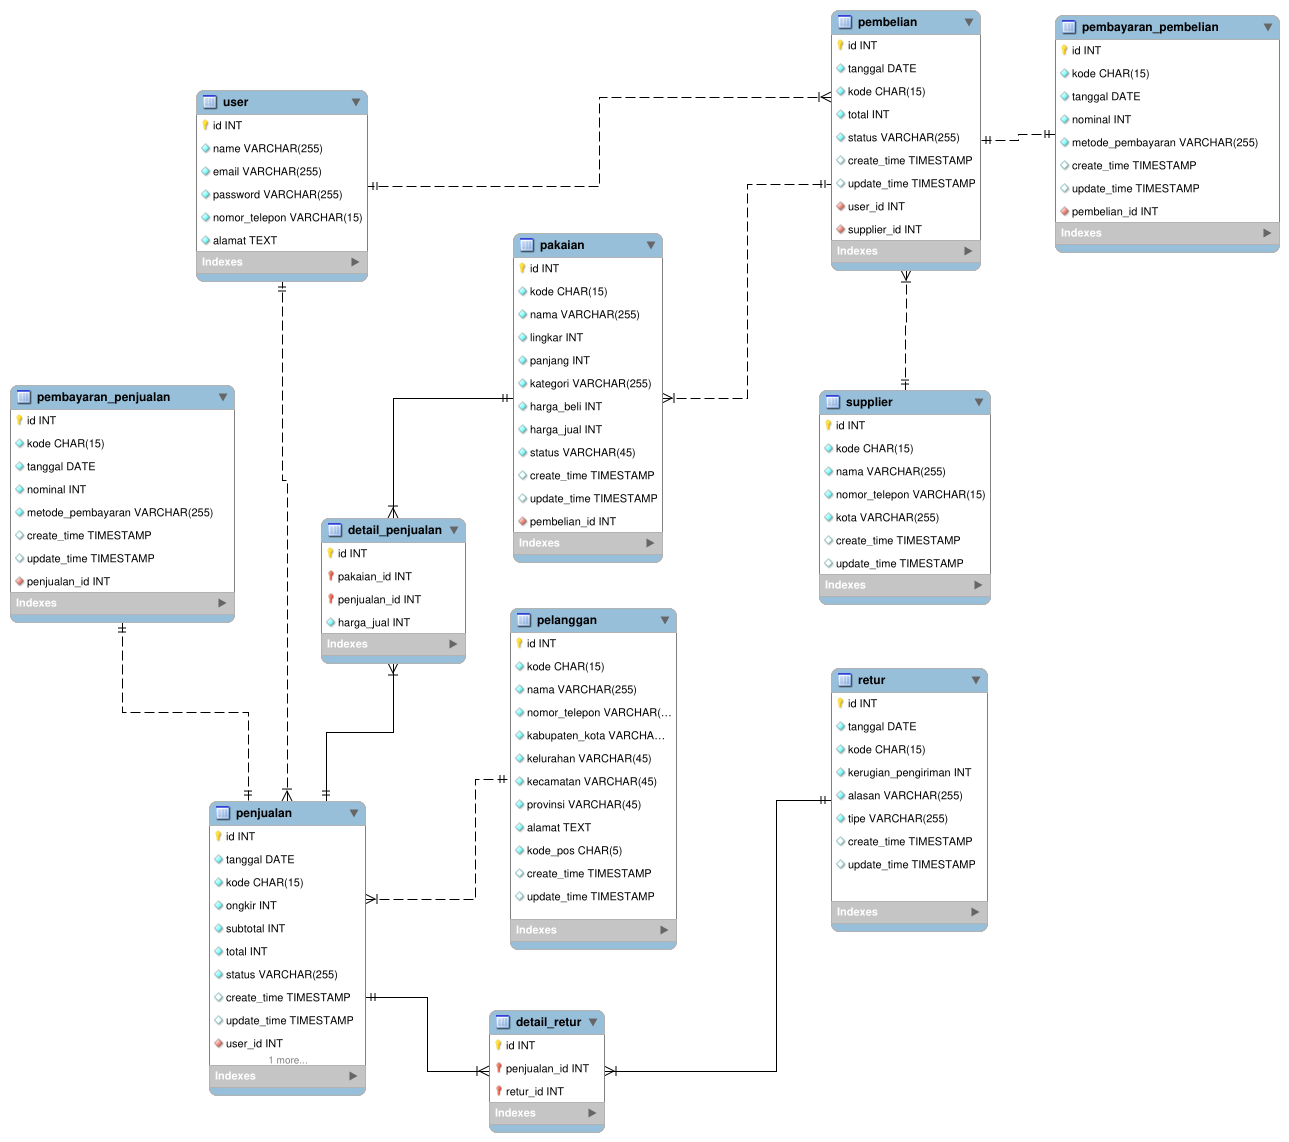
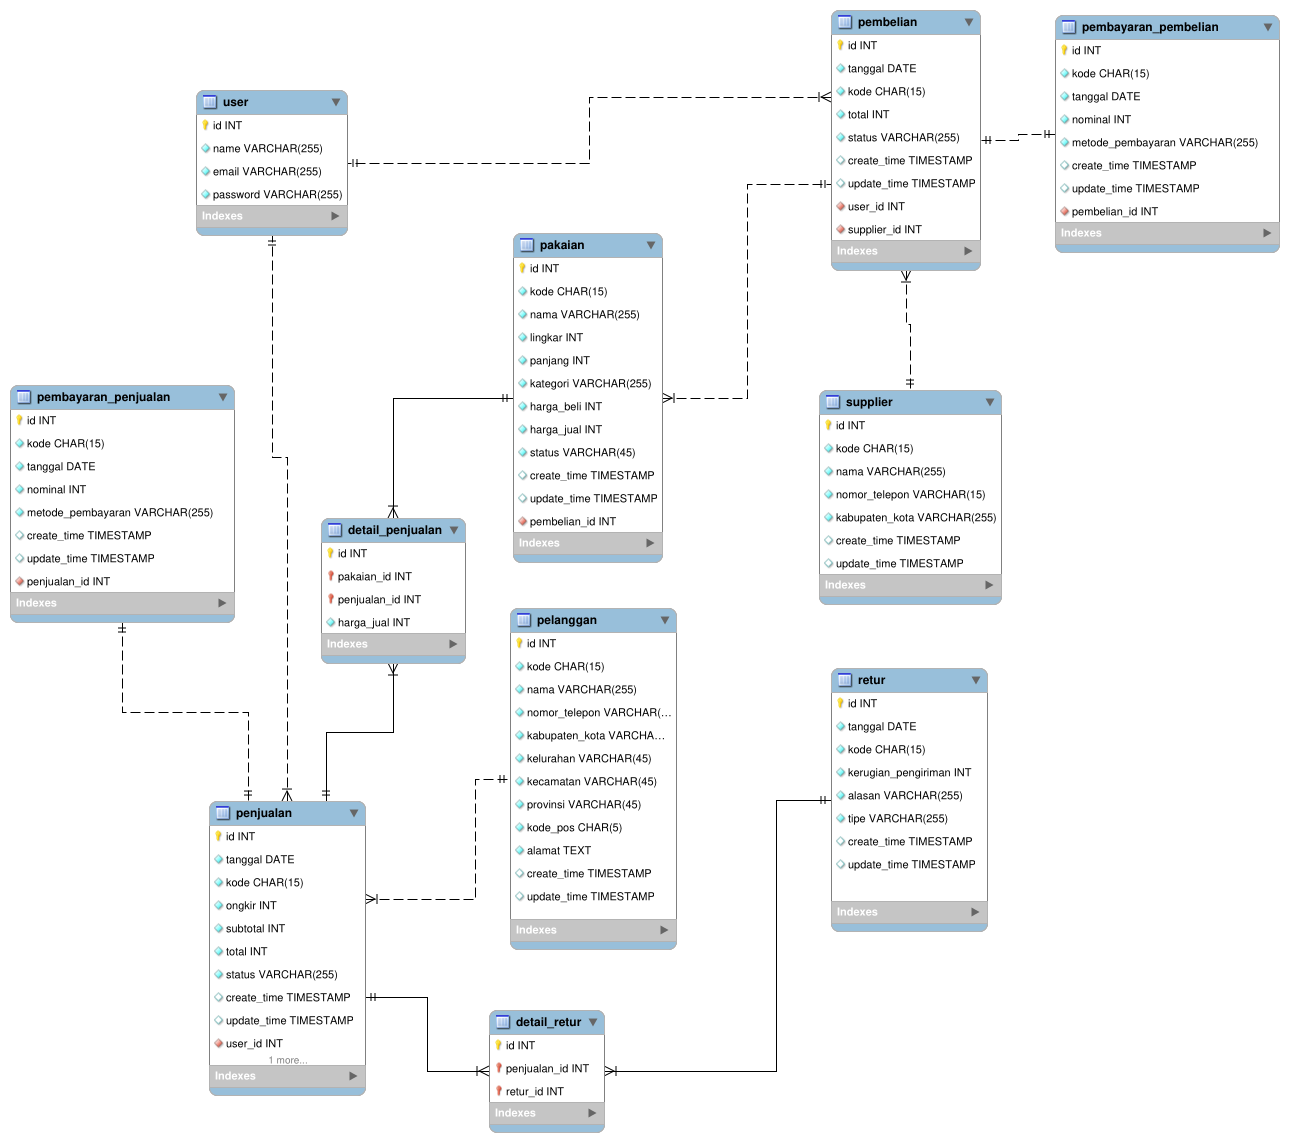
fix: menghapus kolom nomor telepon dan alamat dari tabel user

diff --git a/database/seeders/UserSeeder.php b/database/seeders/UserSeeder.php
@@ -16,8 +16,6 @@ class UserSeeder extends Seeder
             'name'          => 'Yani Tristanti',
             'email'         => 'yanitristanti@gmail.com',
             'password'      => Hash::make('yani123'),
-            'nomor_telepon' => '0881010788808',
-            'alamat'        => 'Jl. Graha Angkasa RRI Surabaya No.A15, Balongpoh, Kedungrejo, Kec. Waru, Kabupaten Sidoarjo, Jawa Timur',
         ]);
 
     }

diff --git a/database/migrations/0001_01_01_000000_create_users_table.php b/database/migrations/0001_01_01_000000_create_users_table.php
@@ -17,8 +17,6 @@ return new class extends Migration
             $table->string('email')->unique();
             $table->timestamp('email_verified_at')->nullable();
             $table->string('password');
-            $table->string('nomor_telepon', 15)->unique();
-            $table->text('alamat');
             $table->rememberToken();
             $table->timestamps();
         });
